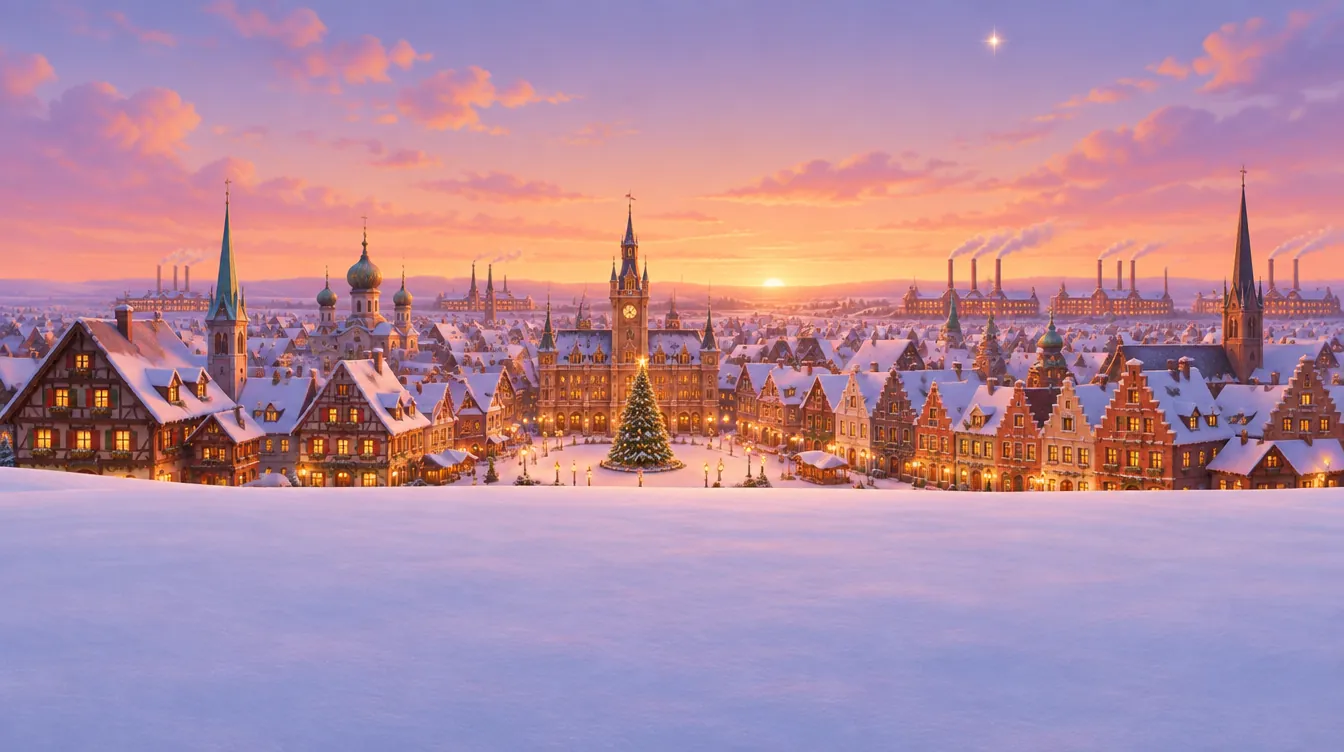
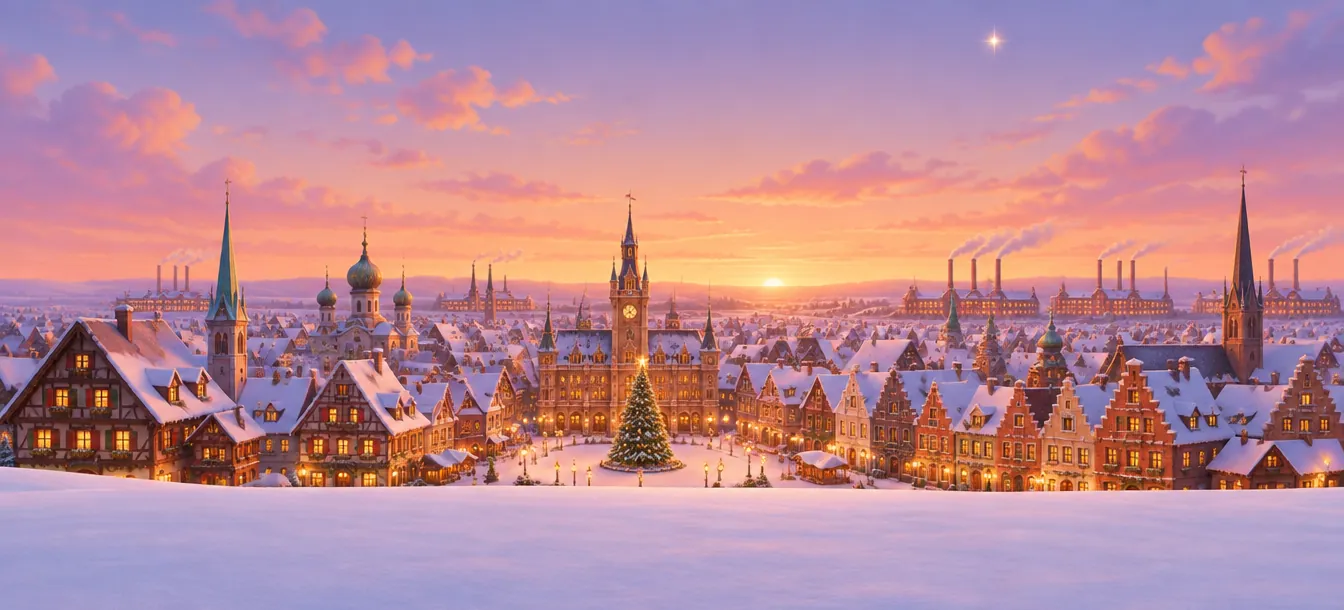
Trim snow foreground from hero backdrop

diff --git a/index.html b/index.html
@@ -929,11 +929,11 @@ footer .bottom{margin-top:60px;padding-top:22px;border-top:1px solid rgba(251,23
 @media (max-width:900px){.hero-copy>p{color:#2a1f2b;font-weight:500}}
 
 /* v31: backdrop scales with the cast, not the viewport */
-#hero{--bgh:max(calc(2.3*var(--cs)),calc(100vw/1.788));
+#hero{--bgh:max(calc(1.866*var(--cs)),calc(100vw/2.203));
 background-image:linear-gradient(to bottom,#d9d2ee 0,#aaa3d6 calc(55% - 0.5*var(--bgh)),#8b87bf calc(100% - var(--bgh) + 2px),rgba(139,135,191,0) calc(100% - var(--bgh) + 0.35*var(--cs))),var(--bgimg);
 background-size:100% 100%,auto var(--bgh);background-position:0 0,center bottom;background-repeat:no-repeat;
 background-color:#8b87bf}
-@media (max-width:900px){#hero{--bgh:max(calc(2.3*var(--cs) + var(--lift)),calc(100vw/1.788))}}
+@media (max-width:900px){#hero{--bgh:max(calc(1.866*var(--cs) + var(--lift)),calc(100vw/2.203))}}
 </style>
 </head>
 <body>
